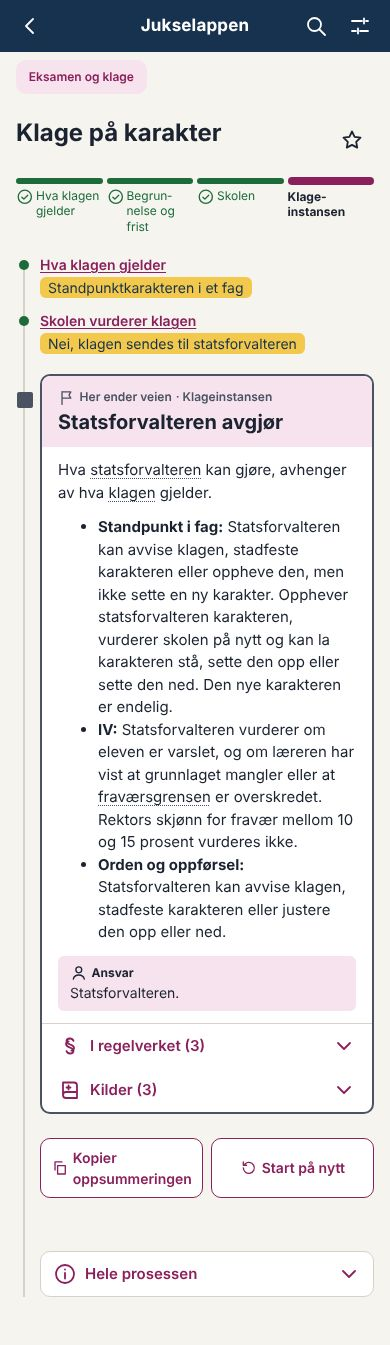
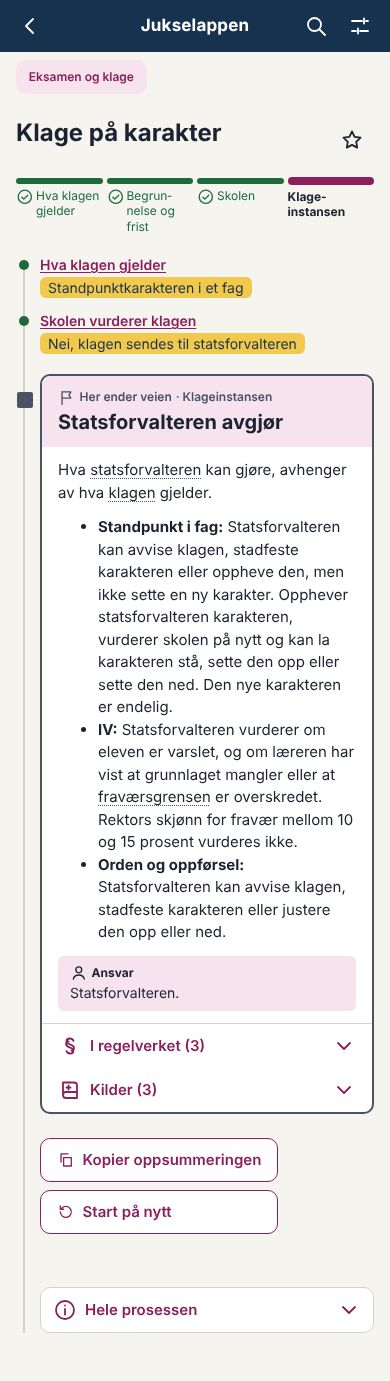
Veiviserne: knappene under hverandre, like brede og med ikon
Eier likte knappene bedre under hverandre. De er nå like brede, så brede som
den bredeste.

Claude-Session: https://claude.ai/code/session_0151c39j5UoqxnzGQrZ5izg4

diff --git a/src/styles/base.css b/src/styles/base.css
@@ -5766,29 +5766,15 @@ div + .veiviser-svargruppe {
   flex: none;
 }
 
-/* «Kopier oppsummeringen» og «Start på nytt» står side om side (eier 08.10.2026). */
+/* «Kopier oppsummeringen» og «Start på nytt» står under hverandre, med ikon, og er like brede: så brede som den
+   bredeste (eier 08.10.2026). */
 .veiviser-oppsummering .knapperad {
   display: grid;
-  grid-template-columns: repeat(2, minmax(0, max-content));
+  grid-template-columns: minmax(0, max-content);
 }
 
 .veiviser-oppsummering .knapp {
-  justify-content: center;
   text-decoration: none;
-}
-
-/* På mobil er de like brede, med litt mindre luft og tekst, så de får plass side om side. På de smaleste skjermene er
-   det ikke plass til «oppsummeringen» i en halv bredde, og da står de under hverandre. */
-@media (max-width: 40rem) {
-  .veiviser-oppsummering .knapperad {
-    grid-template-columns: repeat(auto-fit, minmax(min(100%, 9.5rem), 1fr));
-  }
-
-  .veiviser-oppsummering .knapp {
-    gap: var(--rom-1);
-    padding-inline: var(--rom-3);
-    font-size: var(--str-s);
-  }
 }
 
 .veiviser-oppsummering p[role='status'] {

diff --git a/CHANGELOG.md b/CHANGELOG.md
@@ -25,7 +25,7 @@ Alle endringer brukerne merker, føres her. Formatet følger [Keep a Changelog](
 - **Kildene nederst på siden** i Lov og forskrift, Overordnet del og Opplæringstilbud står i en lukket boks, som på fagarket, i stedet for en punktliste.
 - **Innstillinger og Om appen:** Delene i Innstillinger er kort med overskriften på en lys blå flate, som i kalkulatorene. På Om appen har brukserklæringen samme overskrift, og delene under har en strek over. Lenkene til Om appen og til kildene er rader med pil.
 - **Fant ikke siden** har «Til forsiden» og «Søk i appen» som rader med ikon og pil.
-- **Veiviserne:** Svarene brukeren har gitt, står med gul bakgrunn øverst i veien og i fasene til venstre, som det som er valgt ellers i appen. «Start på nytt» har fått et ikon, og knappene «Kopier oppsummeringen» og «Start på nytt» står side om side.
+- **Veiviserne:** Svarene brukeren har gitt, står med gul bakgrunn øverst i veien og i fasene til venstre, som det som er valgt ellers i appen. «Start på nytt» har fått et ikon, og knappene «Kopier oppsummeringen» og «Start på nytt» er like brede.
 - **Kortene som kan lukkes** i Opplæringstilbud, Læreplanverket og Lov og forskrift har overskriften på en lys blå flate i stedet for en tykk strek. Fellesfag, felles programfag og yrkesfaglig fordypning i et tilbud har en prikk i samme farge som i stolpen over.
 
 ### Rettet

diff --git a/docs/arbeidsordrer/fase-8b-forslag.md b/docs/arbeidsordrer/fase-8b-forslag.md
@@ -9,7 +9,7 @@ Til eier, 08.10.2026. Svar gjerne punkt for punkt (f.eks. «D1 ja, D3 B»). Rund
 Eier 08.10.2026: «Gi Start på nytt et ikon og still de to knappene side om side. Inkluder gul merking for svarene som er gitt øverst i veien.» Og: streken for landet i Videregående i tall er brutt.
 
 - **Svarene som er gitt,** står med gul bakgrunn øverst i veien og i fasene til venstre på skrivebord.
-- **«Start på nytt»** har ikon, og knappene står side om side. På mobil er de like brede, og fra 375 px er det plass side om side. På de smaleste skjermene står de under hverandre.
+- **«Start på nytt»** har ikon, og knappene er like brede, så brede som «Kopier oppsummeringen». De sto en kort stund side om side, men eier likte dem bedre under hverandre (eier 08.10.2026).
 - **Streken for landet** flyttet seg opptil 4 px mellom radene, fordi tallkolonnen fikk bredden til tallet i hver rad (bredere i den fete raden for fylket). Nå deler radene kolonnene, og en test sjekker at streken står rett.
 
 | | Før | Etter |

diff --git a/docs/DESIGN.md b/docs/DESIGN.md
@@ -87,7 +87,7 @@ Et kort samler én ting: et skjema, en oppføring eller en forklaring.
 - Et steg er et hvitt kort med steget og tittelen på en myk flate i fargen til veiviseren (`--farge-flate-2` settes per veiviser).
 - Svarene er rader i ett hvitt kort med tynn strek mellom og pil til høyre (`veiviser-svarliste`).
 - Svarene brukeren har gitt, står med gul bakgrunn (`veiviser-svar-valgt`) øverst i veien og i fasene, fordi gult er det som er valgt (eier 08.10.2026).
-- Knappene i veiviseren følger fargen til veiviseren, som lenkene, og er ikke gule. «Kopier oppsummeringen» og «Start på nytt» har ikon og står side om side.
+- Knappene i veiviseren følger fargen til veiviseren, som lenkene, og er ikke gule. «Kopier oppsummeringen» og «Start på nytt» har ikon, står under hverandre og er like brede.
 - Det som er lokalt (fylket, skolen), står på en myk flate uten strek. Lokale tillegg og privatskoler har stiplet kant.
 
 ## Tall og resultater
